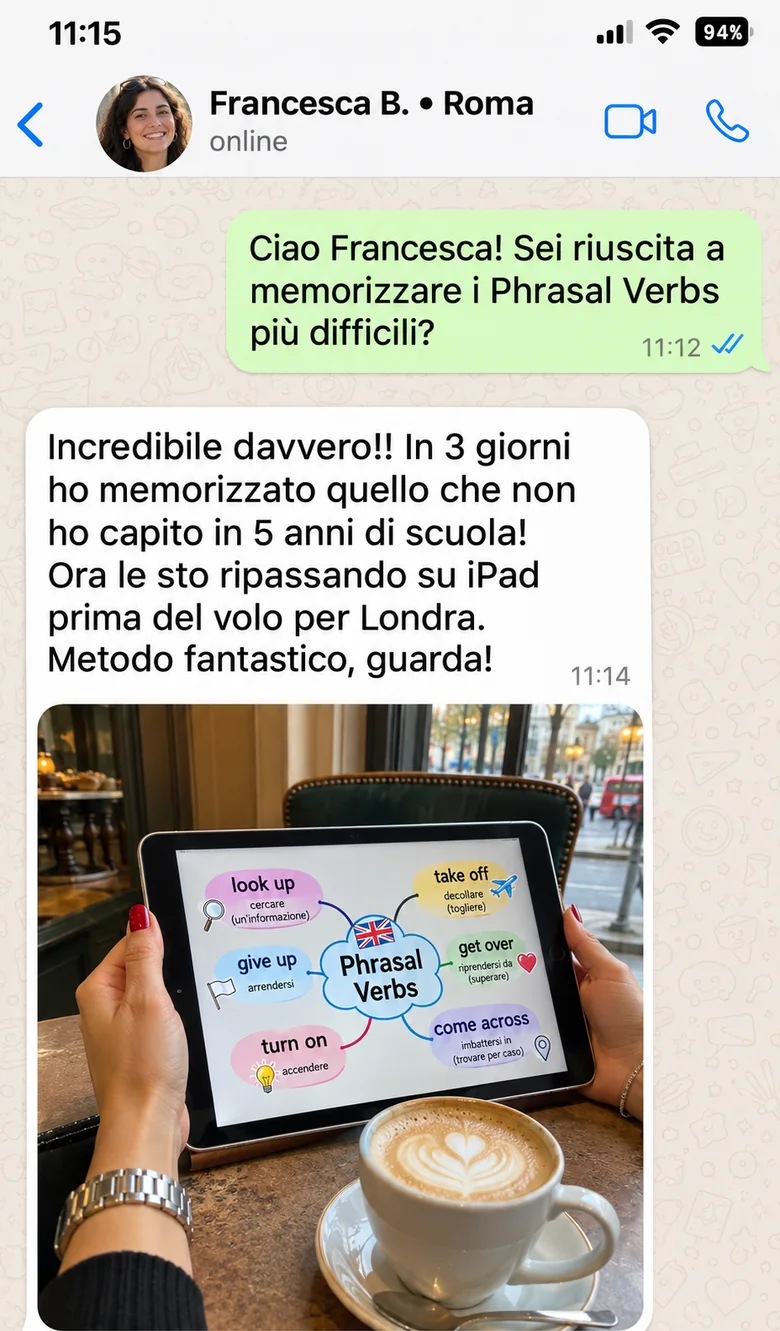
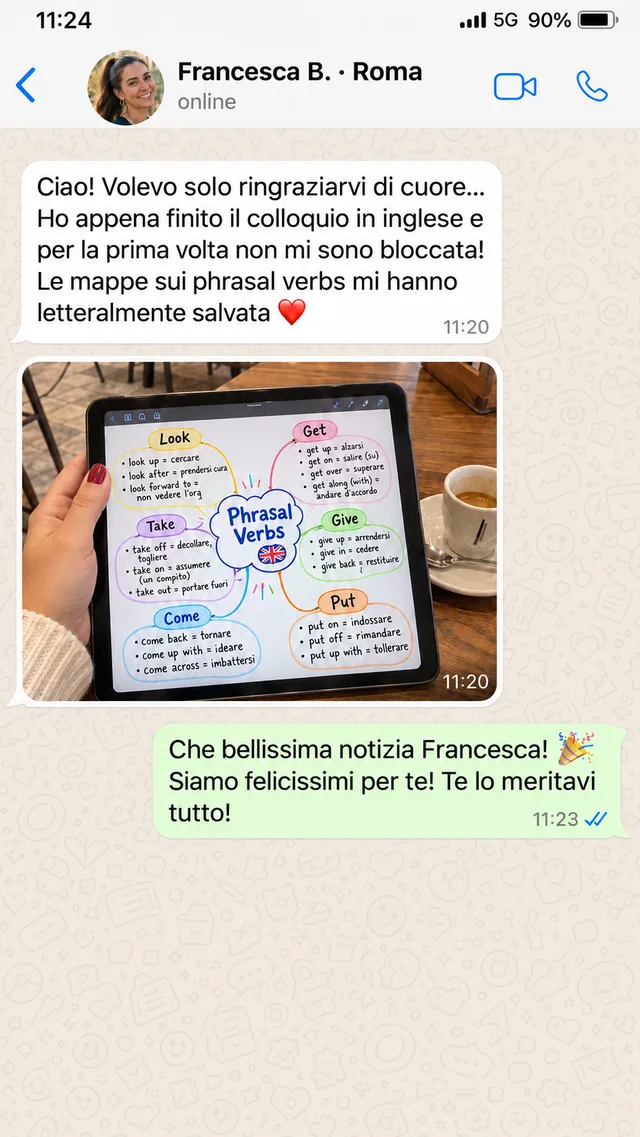
fix(cro): 7 whatsapp testimonials in clean button carousel without bezels, update piano base exclusions in red, and fix mobile responsiveness in livelli

diff --git a/index.html b/index.html
@@ -1044,24 +1044,52 @@
         </p>
       </div>
 
-            <div class="whatsapp-phones-container">
-        
-        <!-- Phone 1: Francesca B. da Roma -->
-        <div class="whatsapp-phone-card">
-          <picture>
-            <source srcset="img/whatsapp-chat-1.webp?v=20261105e" type="image/webp">
-            <img src="img/whatsapp-chat-1.webp?v=20261105e" alt="Testimonianza WhatsApp Francesca B. da Roma" width="390" height="760" loading="eager" decoding="async">
-          </picture>
+                  <!-- WhatsApp Testimonials Carousel (Clean 9:16 captures without phone frames, button navigation) -->
+      <div class="wa-carousel-container">
+        <button type="button" class="wa-carousel-btn wa-prev-btn" id="waPrevBtn" aria-label="Testimonianza precedente">
+          <svg width="24" height="24" viewBox="0 0 24 24" fill="none" stroke="currentColor" stroke-width="2.5" stroke-linecap="round" stroke-linejoin="round"><polyline points="15 18 9 12 15 6"></polyline></svg>
+        </button>
+
+        <div class="wa-carousel-track" id="waTrack">
+          <!-- Card 1: Francesca B. · Roma -->
+          <div class="wa-card">
+            <img src="img/whatsapp-chat-1.webp?v=20261106" alt="Testimonianza WhatsApp Francesca B. - Roma" width="640" height="1138" loading="eager" decoding="async">
+          </div>
+
+          <!-- Card 2: Gianluca M. · Milano -->
+          <div class="wa-card">
+            <img src="img/whatsapp-chat-2.webp?v=20261106" alt="Testimonianza WhatsApp Gianluca M. - Milano" width="640" height="1138" loading="lazy" decoding="async">
+          </div>
+
+          <!-- Card 3: Matteo R. · Torino -->
+          <div class="wa-card">
+            <img src="img/whatsapp-chat-3.webp?v=20261106" alt="Testimonianza WhatsApp Matteo R. - Torino" width="640" height="1138" loading="lazy" decoding="async">
+          </div>
+
+          <!-- Card 4: Elena S. · Bologna -->
+          <div class="wa-card">
+            <img src="img/whatsapp-chat-4.webp?v=20261106" alt="Testimonianza WhatsApp Elena S. - Bologna" width="640" height="1138" loading="lazy" decoding="async">
+          </div>
+
+          <!-- Card 5: Marco P. · Firenze -->
+          <div class="wa-card">
+            <img src="img/whatsapp-chat-5.webp?v=20261106" alt="Testimonianza WhatsApp Marco P. - Firenze" width="640" height="1138" loading="lazy" decoding="async">
+          </div>
+
+          <!-- Card 6: Chiara V. · Napoli -->
+          <div class="wa-card">
+            <img src="img/whatsapp-chat-6.webp?v=20261106" alt="Testimonianza WhatsApp Chiara V. - Napoli" width="640" height="1138" loading="lazy" decoding="async">
+          </div>
+
+          <!-- Card 7: Davide L. · Verona -->
+          <div class="wa-card">
+            <img src="img/whatsapp-chat-7.webp?v=20261106" alt="Testimonianza WhatsApp Davide L. - Verona" width="640" height="1138" loading="lazy" decoding="async">
+          </div>
         </div>
 
-        <!-- Phone 2: Gianluca M. da Milano -->
-        <div class="whatsapp-phone-card">
-          <picture>
-            <source srcset="img/whatsapp-chat-3.webp?v=20261105e" type="image/webp">
-            <img src="img/whatsapp-chat-3.webp?v=20261105e" alt="Testimonianza WhatsApp Gianluca M. da Milano" width="390" height="760" loading="eager" decoding="async">
-          </picture>
-        </div>
-
+        <button type="button" class="wa-carousel-btn wa-next-btn" id="waNextBtn" aria-label="Testimonianza successiva">
+          <svg width="24" height="24" viewBox="0 0 24 24" fill="none" stroke="currentColor" stroke-width="2.5" stroke-linecap="round" stroke-linejoin="round"><polyline points="9 18 15 12 9 6"></polyline></svg>
+        </button>
       </div>
     </div>
   </section>
@@ -1254,10 +1282,9 @@
           <ul class="plan-features-list">
             <li><span class="check-icon">✓</span> <strong>75 Mappe Mentali</strong> (Modulo 1: Grammatica Essenziale)</li>
             <li><span class="check-icon">✓</span> Formato PDF digitale ad alta risoluzione</li>
-            <li><span class="check-icon">✓</span> Bonus #1: Guida Tascabile per Viaggiare</li>
             <li><span class="check-icon">✓</span> Garanzia Soddisfatti o Rimborsati di 7 Giorni</li>
-            <li style="color: var(--text-light); text-decoration: line-through;"><span style="color: var(--text-light);">✕</span> 225 Mappe Avanzate & Phrasal Verbs</li>
-            <li style="color: var(--text-light); text-decoration: line-through;"><span style="color: var(--text-light);">✕</span> 4 Bonus Professionali Inclusi</li>
+            <li style="color: #DC2626; font-weight: 600;"><span style="color: #DC2626; font-weight: bold; margin-right: 6px;">✕</span> <span style="text-decoration: line-through;">225 Mappe Avanzate & Phrasal Verbs (NON Inclusi)</span></li>
+            <li style="color: #DC2626; font-weight: 600;"><span style="color: #DC2626; font-weight: bold; margin-right: 6px;">✕</span> <span style="text-decoration: line-through;">Tutti i 5 Bonus Esclusivi (NON Inclusi)</span></li>
           </ul>
 
           <button type="button" class="btn-cta btn-basic-muted" onclick="openBasicUpsellModal()" style="width: 100%; border: none; cursor: pointer;">
@@ -1608,6 +1635,23 @@
         document.getElementById(targetId).classList.add('active');
       });
     });
+
+        // 5. CAROUSEL TESTIMONIANZE WHATSAPP
+    const waTrack = document.getElementById('waTrack');
+    const waPrevBtn = document.getElementById('waPrevBtn');
+    const waNextBtn = document.getElementById('waNextBtn');
+
+    if (waTrack && waPrevBtn && waNextBtn) {
+      waPrevBtn.addEventListener('click', () => {
+        const cardWidth = waTrack.querySelector('.wa-card')?.offsetWidth || 300;
+        waTrack.scrollBy({ left: -(cardWidth + 20), behavior: 'smooth' });
+      });
+
+      waNextBtn.addEventListener('click', () => {
+        const cardWidth = waTrack.querySelector('.wa-card')?.offsetWidth || 300;
+        waTrack.scrollBy({ left: (cardWidth + 20), behavior: 'smooth' });
+      });
+    }
 
     // 4. FAQ ACCORDION INTERATTIVO
     const faqQuestions = document.querySelectorAll('.faq-question');

diff --git a/style.css b/style.css
@@ -2591,3 +2591,139 @@ img {
     font-size: 0.8rem;
   }
 }
+
+
+/* ==========================================================================
+   WHATSAPP TESTIMONIALS CAROUSEL (BUTTON NAVIGATION ONLY, NO PHONE BEZEL)
+   ========================================================================== */
+.wa-carousel-container {
+  position: relative;
+  max-width: 1180px;
+  margin: 36px auto 0;
+  padding: 0 54px;
+}
+
+.wa-carousel-track {
+  display: flex;
+  gap: 20px;
+  overflow-x: auto;
+  scroll-snap-type: x mandatory;
+  scroll-behavior: smooth;
+  -webkit-overflow-scrolling: touch;
+  scrollbar-width: none;
+  padding: 12px 6px;
+}
+
+.wa-carousel-track::-webkit-scrollbar {
+  display: none;
+}
+
+.wa-card {
+  flex: 0 0 310px;
+  max-width: 310px;
+  scroll-snap-align: center;
+  border-radius: 20px;
+  overflow: hidden;
+  box-shadow: 0 10px 28px rgba(0, 0, 0, 0.08);
+  border: 1px solid #E2E8F0;
+  background: #FFFFFF;
+  transition: transform 0.25s ease, box-shadow 0.25s ease;
+}
+
+.wa-card:hover {
+  transform: translateY(-4px);
+  box-shadow: 0 16px 36px rgba(0, 0, 0, 0.12);
+}
+
+.wa-card img {
+  width: 100%;
+  height: auto;
+  display: block;
+}
+
+.wa-carousel-btn {
+  position: absolute;
+  top: 50%;
+  transform: translateY(-50%);
+  width: 48px;
+  height: 48px;
+  border-radius: 50%;
+  background: #FFFFFF;
+  color: var(--text-dark, #1E293B);
+  border: 2px solid var(--border-color, #E2E8F0);
+  box-shadow: 0 6px 18px rgba(0, 0, 0, 0.12);
+  display: flex;
+  align-items: center;
+  justify-content: center;
+  cursor: pointer;
+  z-index: 10;
+  transition: background 0.2s ease, transform 0.2s ease, color 0.2s ease, border-color 0.2s ease;
+}
+
+.wa-carousel-btn:hover {
+  background: var(--brand-purple, #7C3AED);
+  color: #FFFFFF;
+  border-color: var(--brand-purple, #7C3AED);
+  transform: translateY(-50%) scale(1.08);
+}
+
+.wa-prev-btn {
+  left: 0;
+}
+
+.wa-next-btn {
+  right: 0;
+}
+
+/* ==========================================================================
+   PERCORSO PROGRESSIVO (#LIVELLI) MOBILE RESPONSIVENESS FIX
+   ========================================================================== */
+@media (max-width: 768px) {
+  .levels-tabs-wrapper {
+    flex-direction: column !important;
+    gap: 10px !important;
+    width: 100% !important;
+    align-items: stretch !important;
+  }
+  .level-tab-btn {
+    width: 100% !important;
+    text-align: center !important;
+    padding: 12px 16px !important;
+    font-size: 0.95rem !important;
+  }
+  .level-content-box {
+    padding: 22px 16px !important;
+    border-radius: var(--radius-md) !important;
+  }
+  .level-grid {
+    grid-template-columns: 1fr !important;
+    gap: 20px !important;
+  }
+  .level-grid > div {
+    min-width: 0 !important;
+    max-width: 100% !important;
+  }
+  .level-grid img {
+    max-width: 100% !important;
+    height: auto !important;
+    display: block !important;
+  }
+}
+
+@media (max-width: 640px) {
+  .wa-carousel-container {
+    padding: 0 38px;
+  }
+  .wa-card {
+    flex: 0 0 270px;
+    max-width: 270px;
+  }
+  .wa-carousel-btn {
+    width: 38px;
+    height: 38px;
+  }
+  .wa-carousel-btn svg {
+    width: 20px;
+    height: 20px;
+  }
+}
